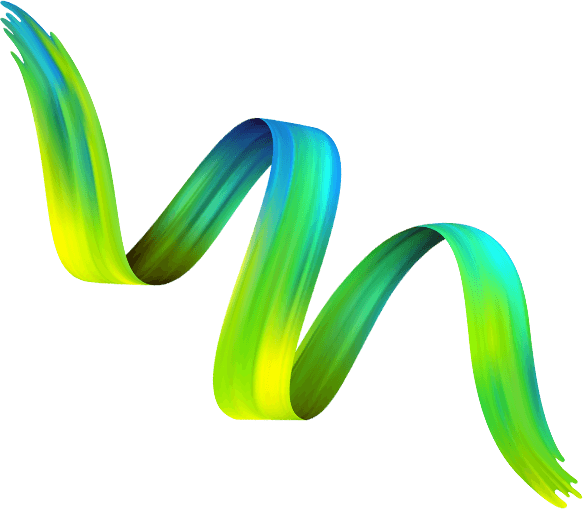
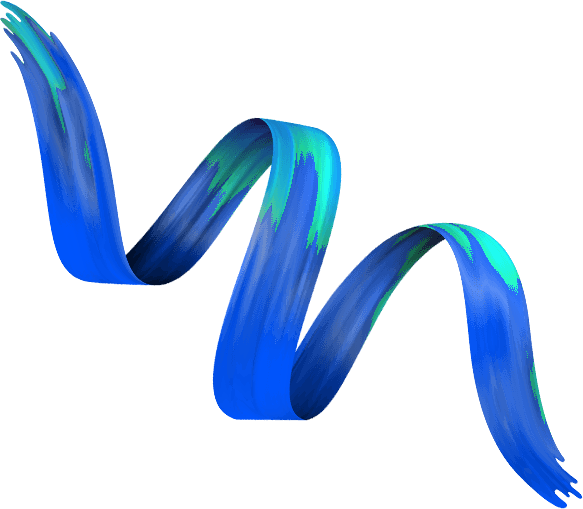
Set the brand color to #236BFF and match the light theme to that blue.

Changed region(s): [[0.3396, 0.2947, 1.0, 1.0], [0.0, 0.0295, 0.4322, 0.5599]]

diff --git a/src/pages/plexify/plexify.css b/src/pages/plexify/plexify.css
@@ -1,5 +1,5 @@
 .plexify-page {
-  --green: #6eff6e;
+  --green: #236BFF;
   --ink: #010101;
   --card: #161616;
   --muted: #a3a3a3;
@@ -95,23 +95,23 @@
   display: inline-flex;
   align-items: center;
   gap: 10px;
-  border: 1px solid rgba(0, 0, 0, 0.55);
-  color: #111;
+  border: 1px solid rgba(255, 255, 255, 0.55);
+  color: #fff;
   background: transparent;
   border-radius: 999px;
   padding: 8px 8px 8px 18px;
   font-weight: 500;
 }
 
-.px-talk i,
+.plexify-page .px-talk i,
 .px-dark-btn i {
   width: 34px;
   height: 34px;
   border-radius: 50%;
   display: grid;
   place-items: center;
-  background: #111;
-  color: #fff;
+  background: #fff;
+  color: #111;
   font-style: normal;
 }
 
@@ -120,7 +120,7 @@
   color: #fff;
 }
 
-.px-header.on-dark .px-talk i {
+.plexify-page .px-header.on-dark .px-talk i {
   background: #fff;
   color: #111;
 }
@@ -165,8 +165,8 @@
 .px-hero {
   min-height: 100vh;
   padding: 150px 6vw 40px;
-  background: linear-gradient(180deg, #6eff6e 0%, #9dff8c 52%, #1d4a12 82%, #010101 100%);
-  color: #050505;
+  background: linear-gradient(180deg, #236BFF 0%, #6B9BFF 52%, #0d1b4a 82%, #010101 100%);
+  color: #fff;
   text-align: center;
   position: relative;
 }
@@ -220,7 +220,7 @@
   top: 0;
   bottom: 0;
   width: 14px;
-  border-color: #111;
+  border-color: #fff;
   border-style: solid;
 }
 
@@ -365,8 +365,8 @@
 .px-work {
   padding: 70px 0 40px;
   background:
-    radial-gradient(circle at 80% 20%, rgba(110, 255, 110, 0.18), transparent 28%),
-    linear-gradient(180deg, #071407 0%, #0c1c08 40%, #010101 100%);
+    radial-gradient(circle at 80% 20%, rgba(35, 107, 255, 0.22), transparent 28%),
+    linear-gradient(180deg, #070d1f 0%, #0c1830 40%, #010101 100%);
   overflow: hidden;
 }
 
@@ -591,7 +591,7 @@
   gap: 20px;
   padding: 40px 48px;
   background:
-    radial-gradient(circle at 70% 50%, rgba(110, 255, 110, 0.55), transparent 36%),
+    radial-gradient(circle at 70% 50%, rgba(35, 107, 255, 0.55), transparent 36%),
     #071207;
 }
 
@@ -756,7 +756,7 @@
   margin: 10px 6vw 0;
   border-radius: 24px;
   padding: 36px;
-  background: linear-gradient(90deg, #10210c, #1a3a10 55%, #6eff6e);
+  background: linear-gradient(90deg, #0c1838, #12306e 55%, #236BFF);
   color: #fff;
   display: flex;
   justify-content: space-between;

diff --git a/src/assets/css/style.css b/src/assets/css/style.css
@@ -100,15 +100,15 @@ Sidebar heading:  22px 'Barlow', sans-serif
 	--dark-secondary: #18191b;
 	--dark-optional: #2a2d32;
 	--white: #ffffff;
-	--color-primary: #C9F31D;
-	--color-secondary: #add40c;
+	--color-primary: #236BFF;
+	--color-secondary: #1546C8;
 	--color-heading: #04000b;
 	--color-paragraph: #666666;
 	--box-shadow-primary: -1px 3px 10px 0 rgba(0, 0, 0, 0.6);
 	--box-shadow-secondary: 0 10px 30px 0 rgba(44, 130, 237, 0.4);
 	--box-shadow-regular: 0px 2px 12px 0px #e7e7e7;
-	--bg-gray: #f2f3ef;
-	--bg-gray-secondary: #eff2e4;
+	--bg-gray: #eef3ff;
+	--bg-gray-secondary: #e4ecff;
 	--bg-gradient: linear-gradient(45deg, var(--color-secondary) 0%, var(--color-primary) 50%);
 	--bg-gradient-secondary: linear-gradient(90deg, rgba(237, 245, 255, 1) 0%, rgba(204, 223, 247, 1) 100%);
 }
@@ -1930,7 +1930,7 @@ p {
 }
 
 .btn.btn-theme {
-	color: var(--color-heading);
+	color: var(--white);
 	border: none;
 	background: var(--color-primary);
 }
@@ -1954,6 +1954,10 @@ p {
 
 .bg-dark .btn.btn-theme::after {
 	background-color: var(--white);
+}
+
+.bg-dark .btn.btn-theme {
+	color: var(--color-heading);
 }
 
 .bg-dark .btn.btn-theme:hover {
@@ -5737,7 +5741,7 @@ ul.list-style-two li:last-child {
 }
 
 .bg-dark .full-screen-portfolio-slider .content h2 {
-	background: linear-gradient(0deg, #add40c 0%, var(--white) 30%);
+	background: linear-gradient(0deg, #1546C8 0%, var(--white) 30%);
 	-webkit-background-clip: text;
 	background-clip: text;
 	-webkit-text-fill-color: transparent;
@@ -10522,7 +10526,7 @@ ul.list-style-three li:first-child {
 	content: "";
 	height: 400px;
 	width: 400px;
-	background: #e7ff88;
+	background: #8eb6ff;
 	z-index: -1;
 	filter: blur(150px);
 	opacity: 0.3;
@@ -12177,7 +12181,7 @@ ul.contact-list li .info {
 	content: "";
 	height: 300px;
 	width: 300px;
-	background: #c9f31d;
+	background: #236BFF;
 	z-index: -1;
 	border-radius: 50%;
 	filter: blur(150px);

diff --git a/src/components/banner/BannerV8.tsx b/src/components/banner/BannerV8.tsx
@@ -8,7 +8,7 @@ const BannerV8 = () => {
         <>
             <div className="banner-style-eight-area bg-cover"
                 style={{ backgroundImage: 'url(/assets/img/shape/3.jpg)' }}>
-                <div className="light-banner-active bg-gray bg-cover" style={{ backgroundImage: 'url(/assets/img/shape/4.jpg)' }} />
+                <div className="light-banner-active bg-gray bg-cover" style={{ backgroundImage: 'url(/assets/img/shape/4.jpg?v=blue)' }} />
                 <div className="container">
                     <div className="row">
                         <div className="col-xl-12">
